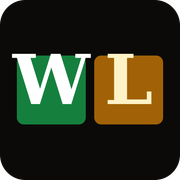
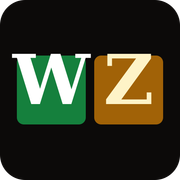
Rebrand WordLock -> Wordezy
Renamed across all user-facing surfaces: page title/meta/OG tags,
header wordmark, boot-loader tiles, share text, package/worker name,
favicon, OG share image, robots.txt/sitemap.xml (now wordezy.bgameworld.com).
Internal Supabase RPC names (wordlock_submit_guess, wordlock_get_today)
are left as-is since they're invisible implementation detail.

Claude-Session: https://claude.ai/code/session_019MLWzXHQReFbMntvwPYfKW

Changed region(s): [[0.5833, 0.2778, 0.8611, 0.5833], [0.8056, 0.5, 0.8611, 0.5278]]

diff --git a/index.html b/index.html
@@ -5,26 +5,26 @@
     <meta name="viewport" content="width=device-width, initial-scale=1.0, maximum-scale=1.0, user-scalable=no" />
 
     <!-- Primary SEO -->
-    <title>WordLock — A Free Daily Word Guessing Game</title>
+    <title>Wordezy — A Free Daily Word Guessing Game</title>
     <meta
       name="description"
       content="Guess the 5-letter word in 6 tries. One new word every day, shared by every player — plus unlimited practice rounds anytime."
     />
     <meta name="robots" content="index, follow" />
-    <link rel="canonical" href="https://wordlock.bgameworld.com/" />
+    <link rel="canonical" href="https://wordezy.bgameworld.com/" />
     <meta name="theme-color" content="#0c0a09" />
     <meta name="author" content="bgameworld.com" />
 
     <!-- Open Graph -->
-    <meta property="og:site_name" content="WordLock" />
-    <meta property="og:title" content="WordLock — A Free Daily Word Guessing Game" />
+    <meta property="og:site_name" content="Wordezy" />
+    <meta property="og:title" content="Wordezy — A Free Daily Word Guessing Game" />
     <meta
       property="og:description"
       content="Guess the 5-letter word in 6 tries. One new word every day, shared by every player — plus unlimited practice rounds anytime."
     />
     <meta property="og:type" content="website" />
-    <meta property="og:url" content="https://wordlock.bgameworld.com/" />
-    <meta property="og:image" content="https://wordlock.bgameworld.com/og-image.jpg" />
+    <meta property="og:url" content="https://wordezy.bgameworld.com/" />
+    <meta property="og:image" content="https://wordezy.bgameworld.com/og-image.jpg" />
     <meta property="og:image:type" content="image/jpeg" />
     <meta property="og:image:width" content="1200" />
     <meta property="og:image:height" content="630" />
@@ -32,12 +32,12 @@
 
     <!-- Twitter / X card -->
     <meta name="twitter:card" content="summary_large_image" />
-    <meta name="twitter:title" content="WordLock — A Free Daily Word Guessing Game" />
+    <meta name="twitter:title" content="Wordezy — A Free Daily Word Guessing Game" />
     <meta
       name="twitter:description"
       content="Guess the 5-letter word in 6 tries. One new word every day, shared by every player."
     />
-    <meta name="twitter:image" content="https://wordlock.bgameworld.com/og-image.jpg" />
+    <meta name="twitter:image" content="https://wordezy.bgameworld.com/og-image.jpg" />
 
     <!-- Icons -->
     <link rel="icon" href="/favicon.ico" sizes="any" />
@@ -49,8 +49,8 @@
       {
         "@context": "https://schema.org",
         "@type": "VideoGame",
-        "name": "WordLock",
-        "url": "https://wordlock.bgameworld.com/",
+        "name": "Wordezy",
+        "url": "https://wordezy.bgameworld.com/",
         "description": "Guess the 5-letter word in 6 tries. One new word every day, shared by every player.",
         "genre": ["Puzzle", "Word Game"],
         "applicationCategory": "Game",
@@ -156,12 +156,12 @@
     </style>
   </head>
   <body class="bg-[#0c0a09] text-stone-100 antialiased selection:bg-emerald-900/60 selection:text-emerald-200">
-    <div id="initial-loader" aria-live="polite" aria-label="Loading WordLock">
+    <div id="initial-loader" aria-live="polite" aria-label="Loading Wordezy">
       <div class="wl-loader-mark">
         <span class="tile">W</span>
-        <span class="tile">L</span>
         <span class="tile">O</span>
-        <span class="tile">K</span>
+        <span class="tile">R</span>
+        <span class="tile">D</span>
       </div>
       <div class="wl-loader-spinner" role="status"></div>
       <div class="wl-loader-caption">Shuffling the letters&hellip;</div>

diff --git a/src/pages/GamePage.tsx b/src/pages/GamePage.tsx
@@ -122,10 +122,10 @@ export const GamePage: React.FC = () => {
   const shareText = useMemo(() => {
     if (mode !== 'daily' || dailyRound.status === 'in_progress') return null;
     return buildShareText({
-      title: `WordLock ${challengeDate.current}`,
+      title: `Wordezy ${challengeDate.current}`,
       feedback: dailyRound.feedback,
       attempt: dailyRound.status === 'won' ? dailyRound.guesses.length : null,
-      url: 'https://wordlock.bgameworld.com',
+      url: 'https://wordezy.bgameworld.com',
     });
   }, [mode, dailyRound]);
 
@@ -139,7 +139,7 @@ export const GamePage: React.FC = () => {
       <header className="border-b border-stone-800 px-4 py-3 flex items-center justify-between max-w-xl w-full mx-auto">
         <div className="flex items-center gap-1.5 font-display font-bold text-lg tracking-wide">
           <span className="text-emerald-500">Word</span>
-          <span className="text-amber-400">Lock</span>
+          <span className="text-amber-400">ezy</span>
         </div>
         <div className="flex items-center gap-2">
           {mode === 'daily' && dailyRound.status !== 'in_progress' && (
